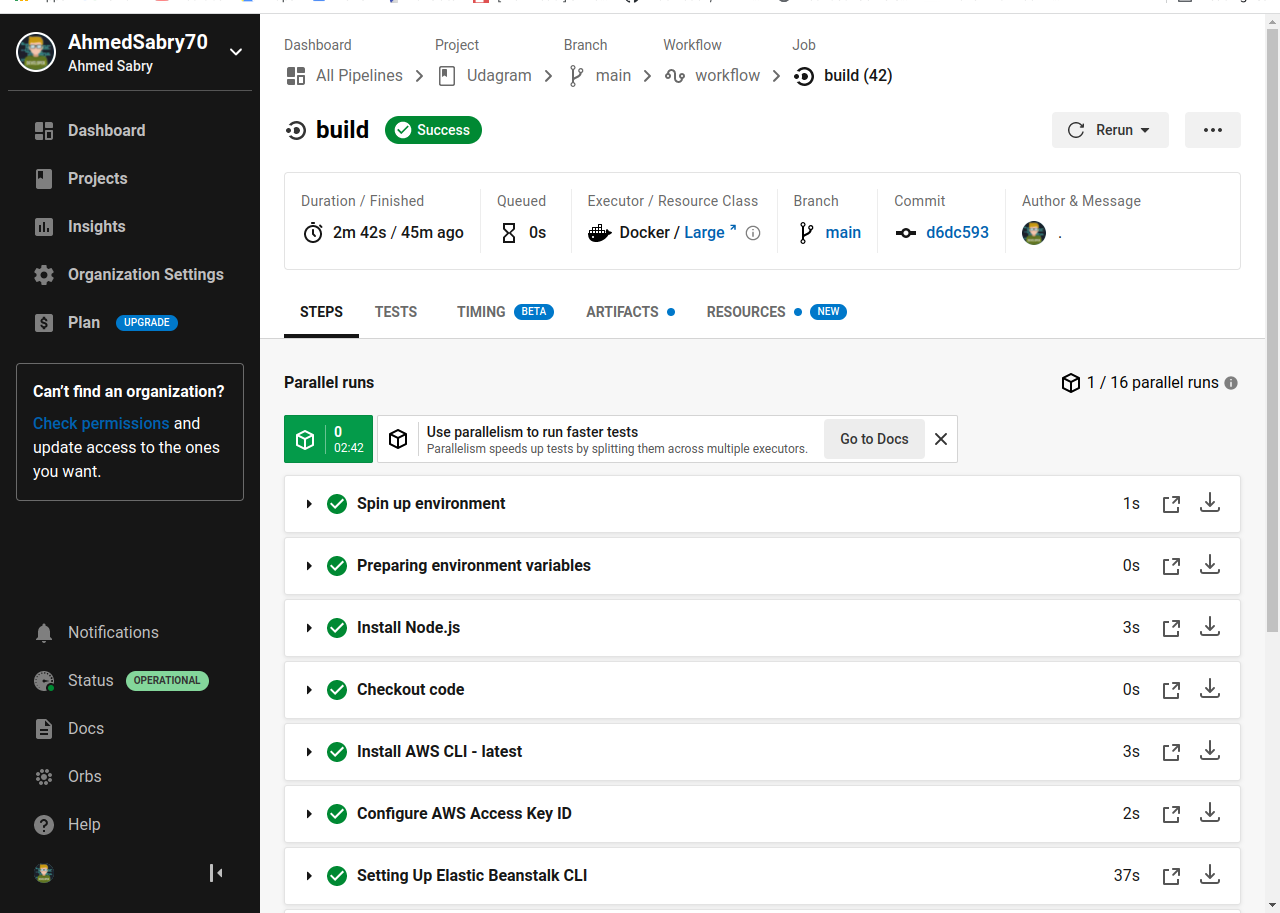
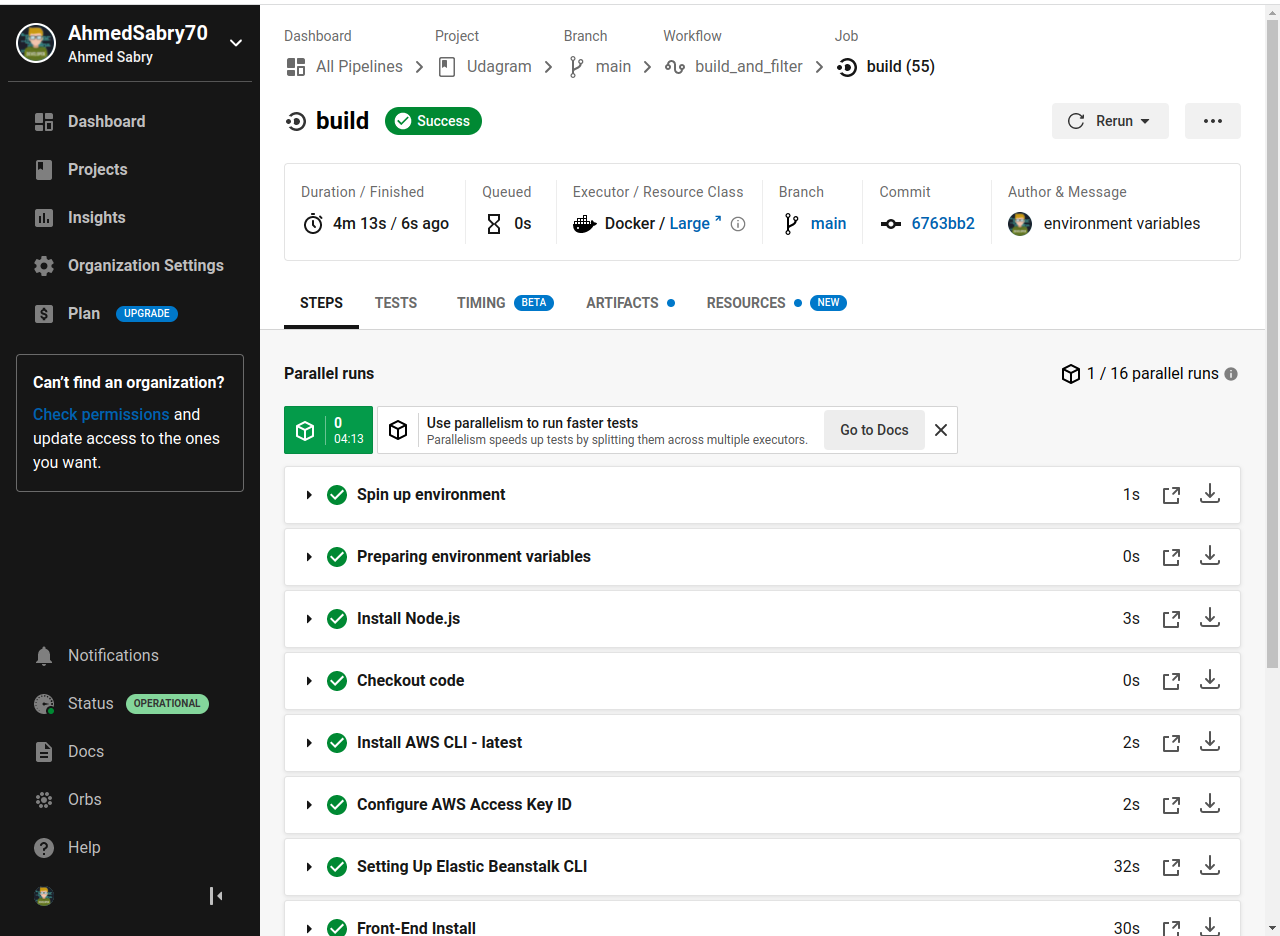
environment variables

diff --git a/README.md b/README.md
@@ -32,8 +32,11 @@ See additional documentation in the documentation folder. :
 
 ![CircleCI Pipeline](./docs/images/circleci.png)
 
+![CircleCI Pipeline](./docs/images/circleci2.png)
 
-![CircleCI Pipeline environment variables](./docs/images/circleci2.png)
+![CircleCI Pipeline only pushes to the main/master branch would trigger build](./docs/images/filtermainmaster.png)
+
+![CircleCI Pipeline environment variables](./docs/images/environmentvariables.png)
 
 > **Include screenshots of the configuration page of your AWS services:**
 
